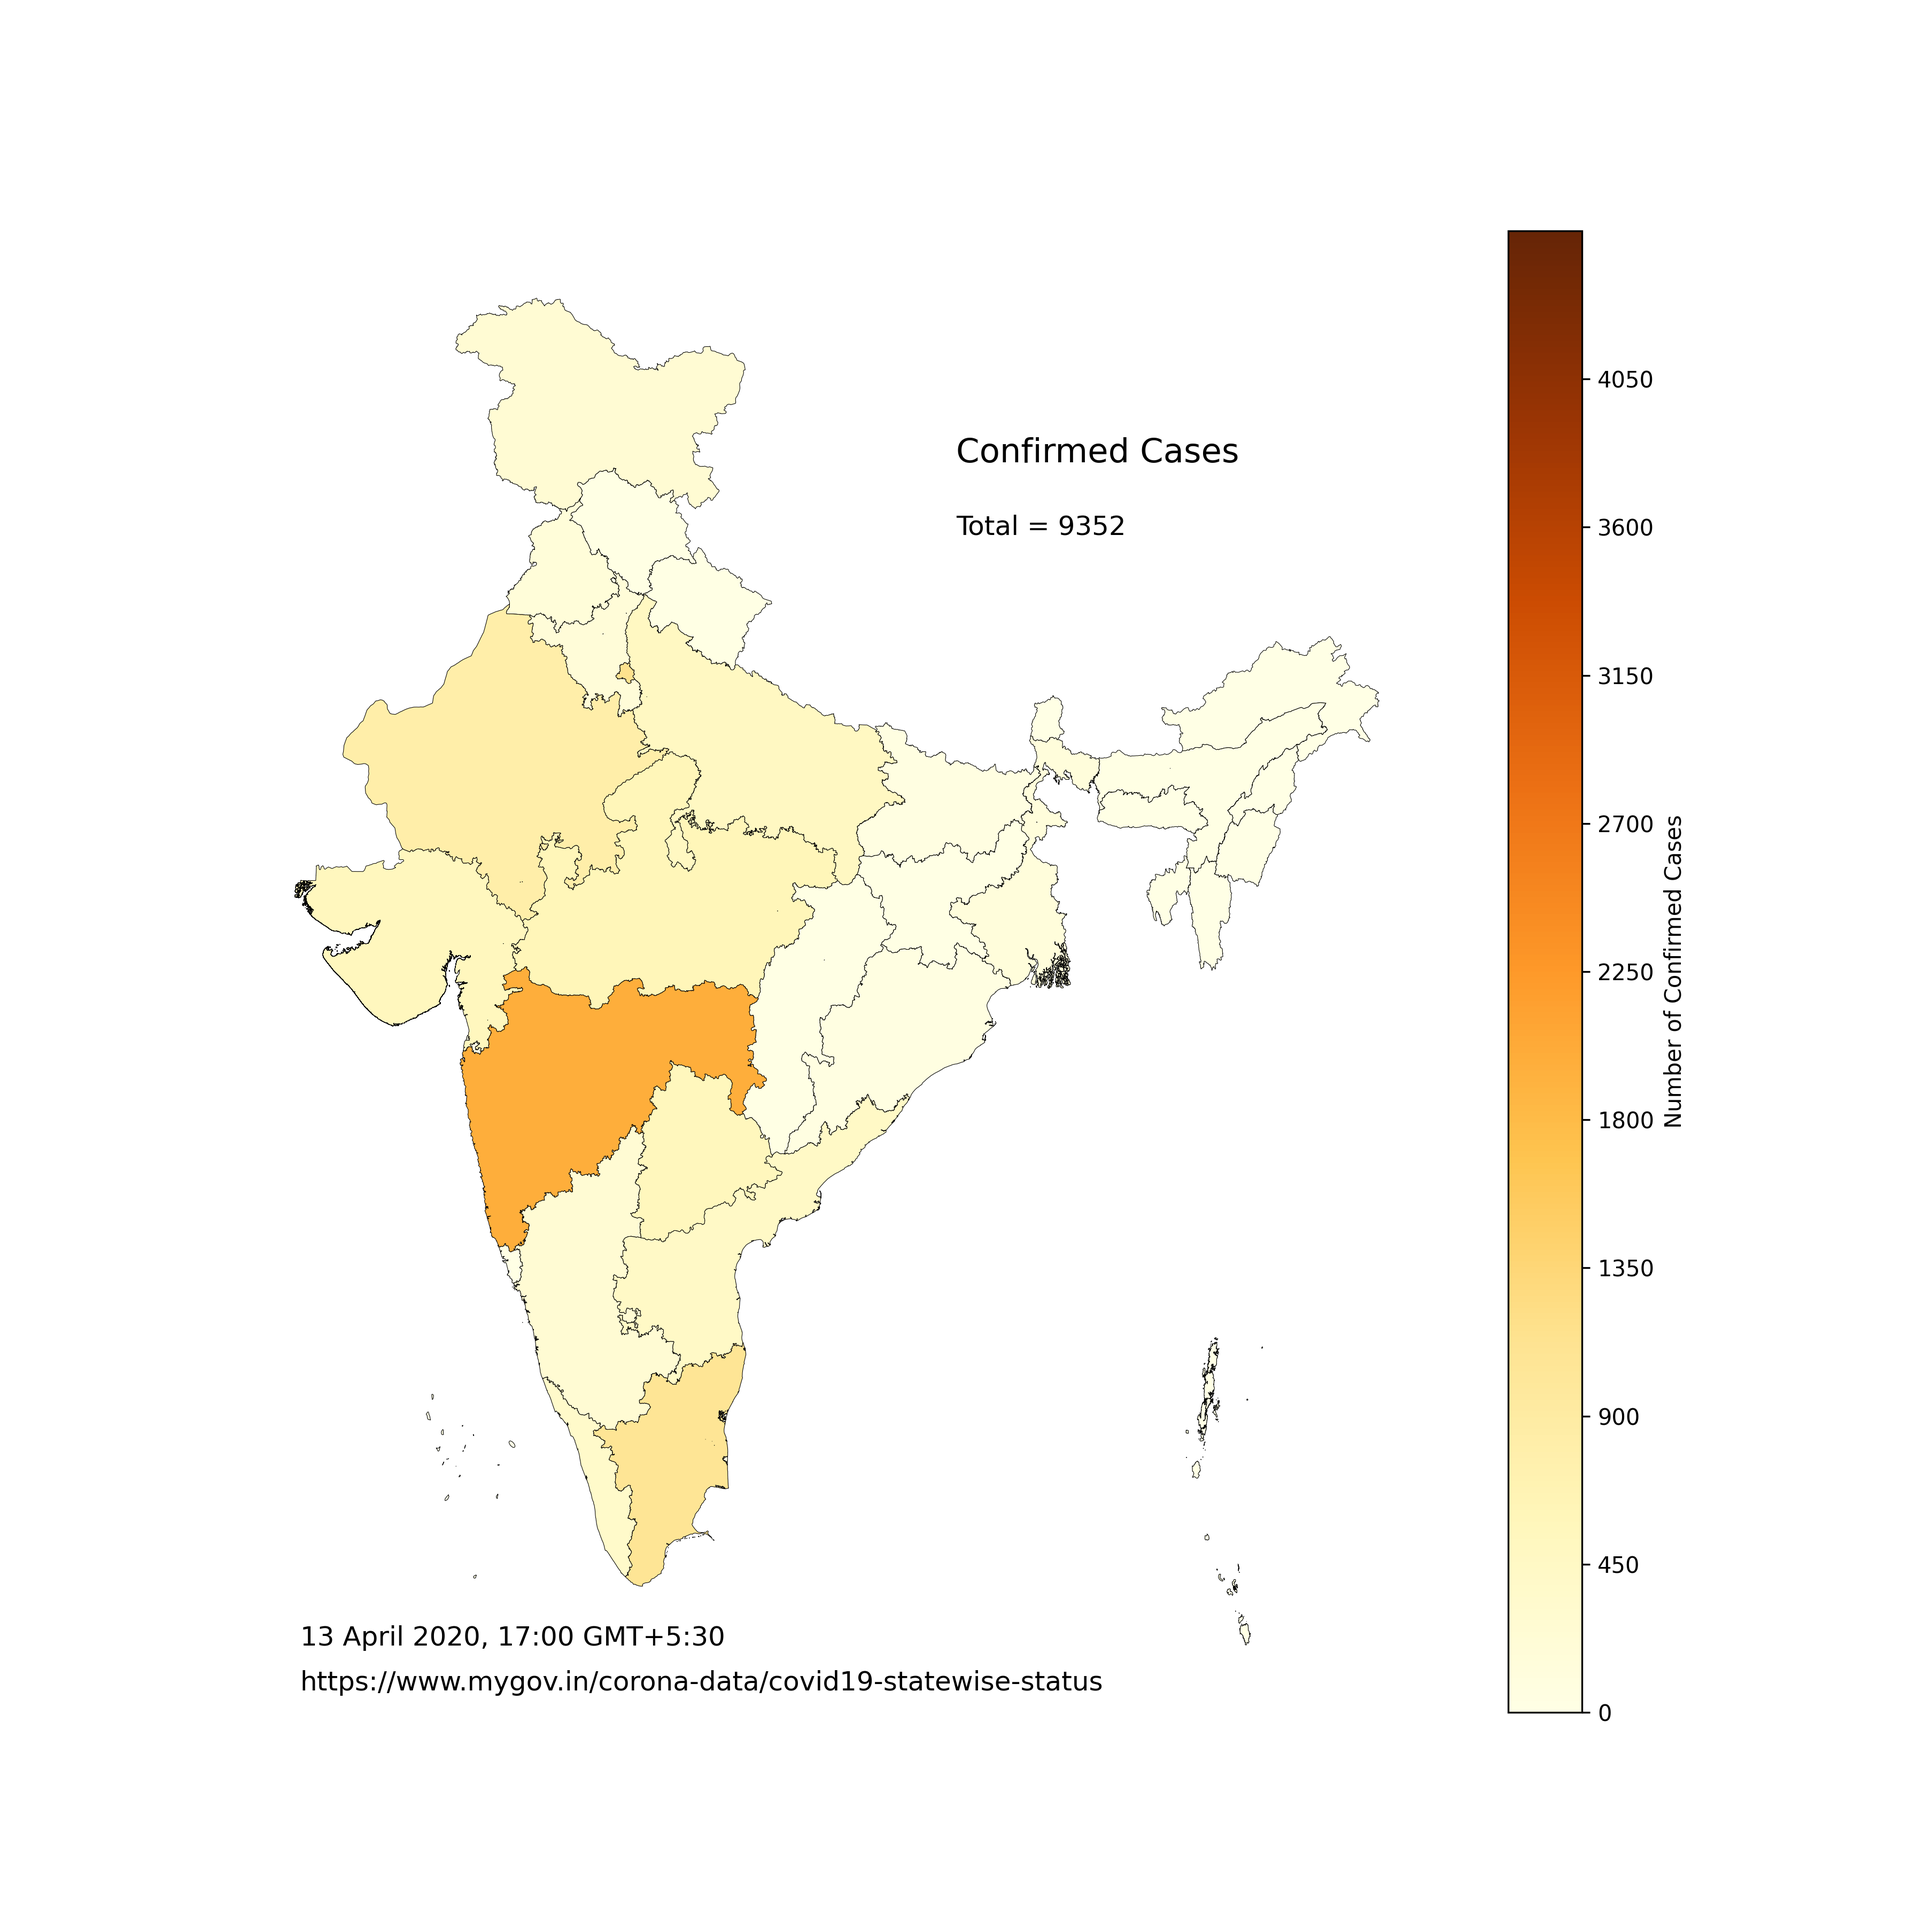
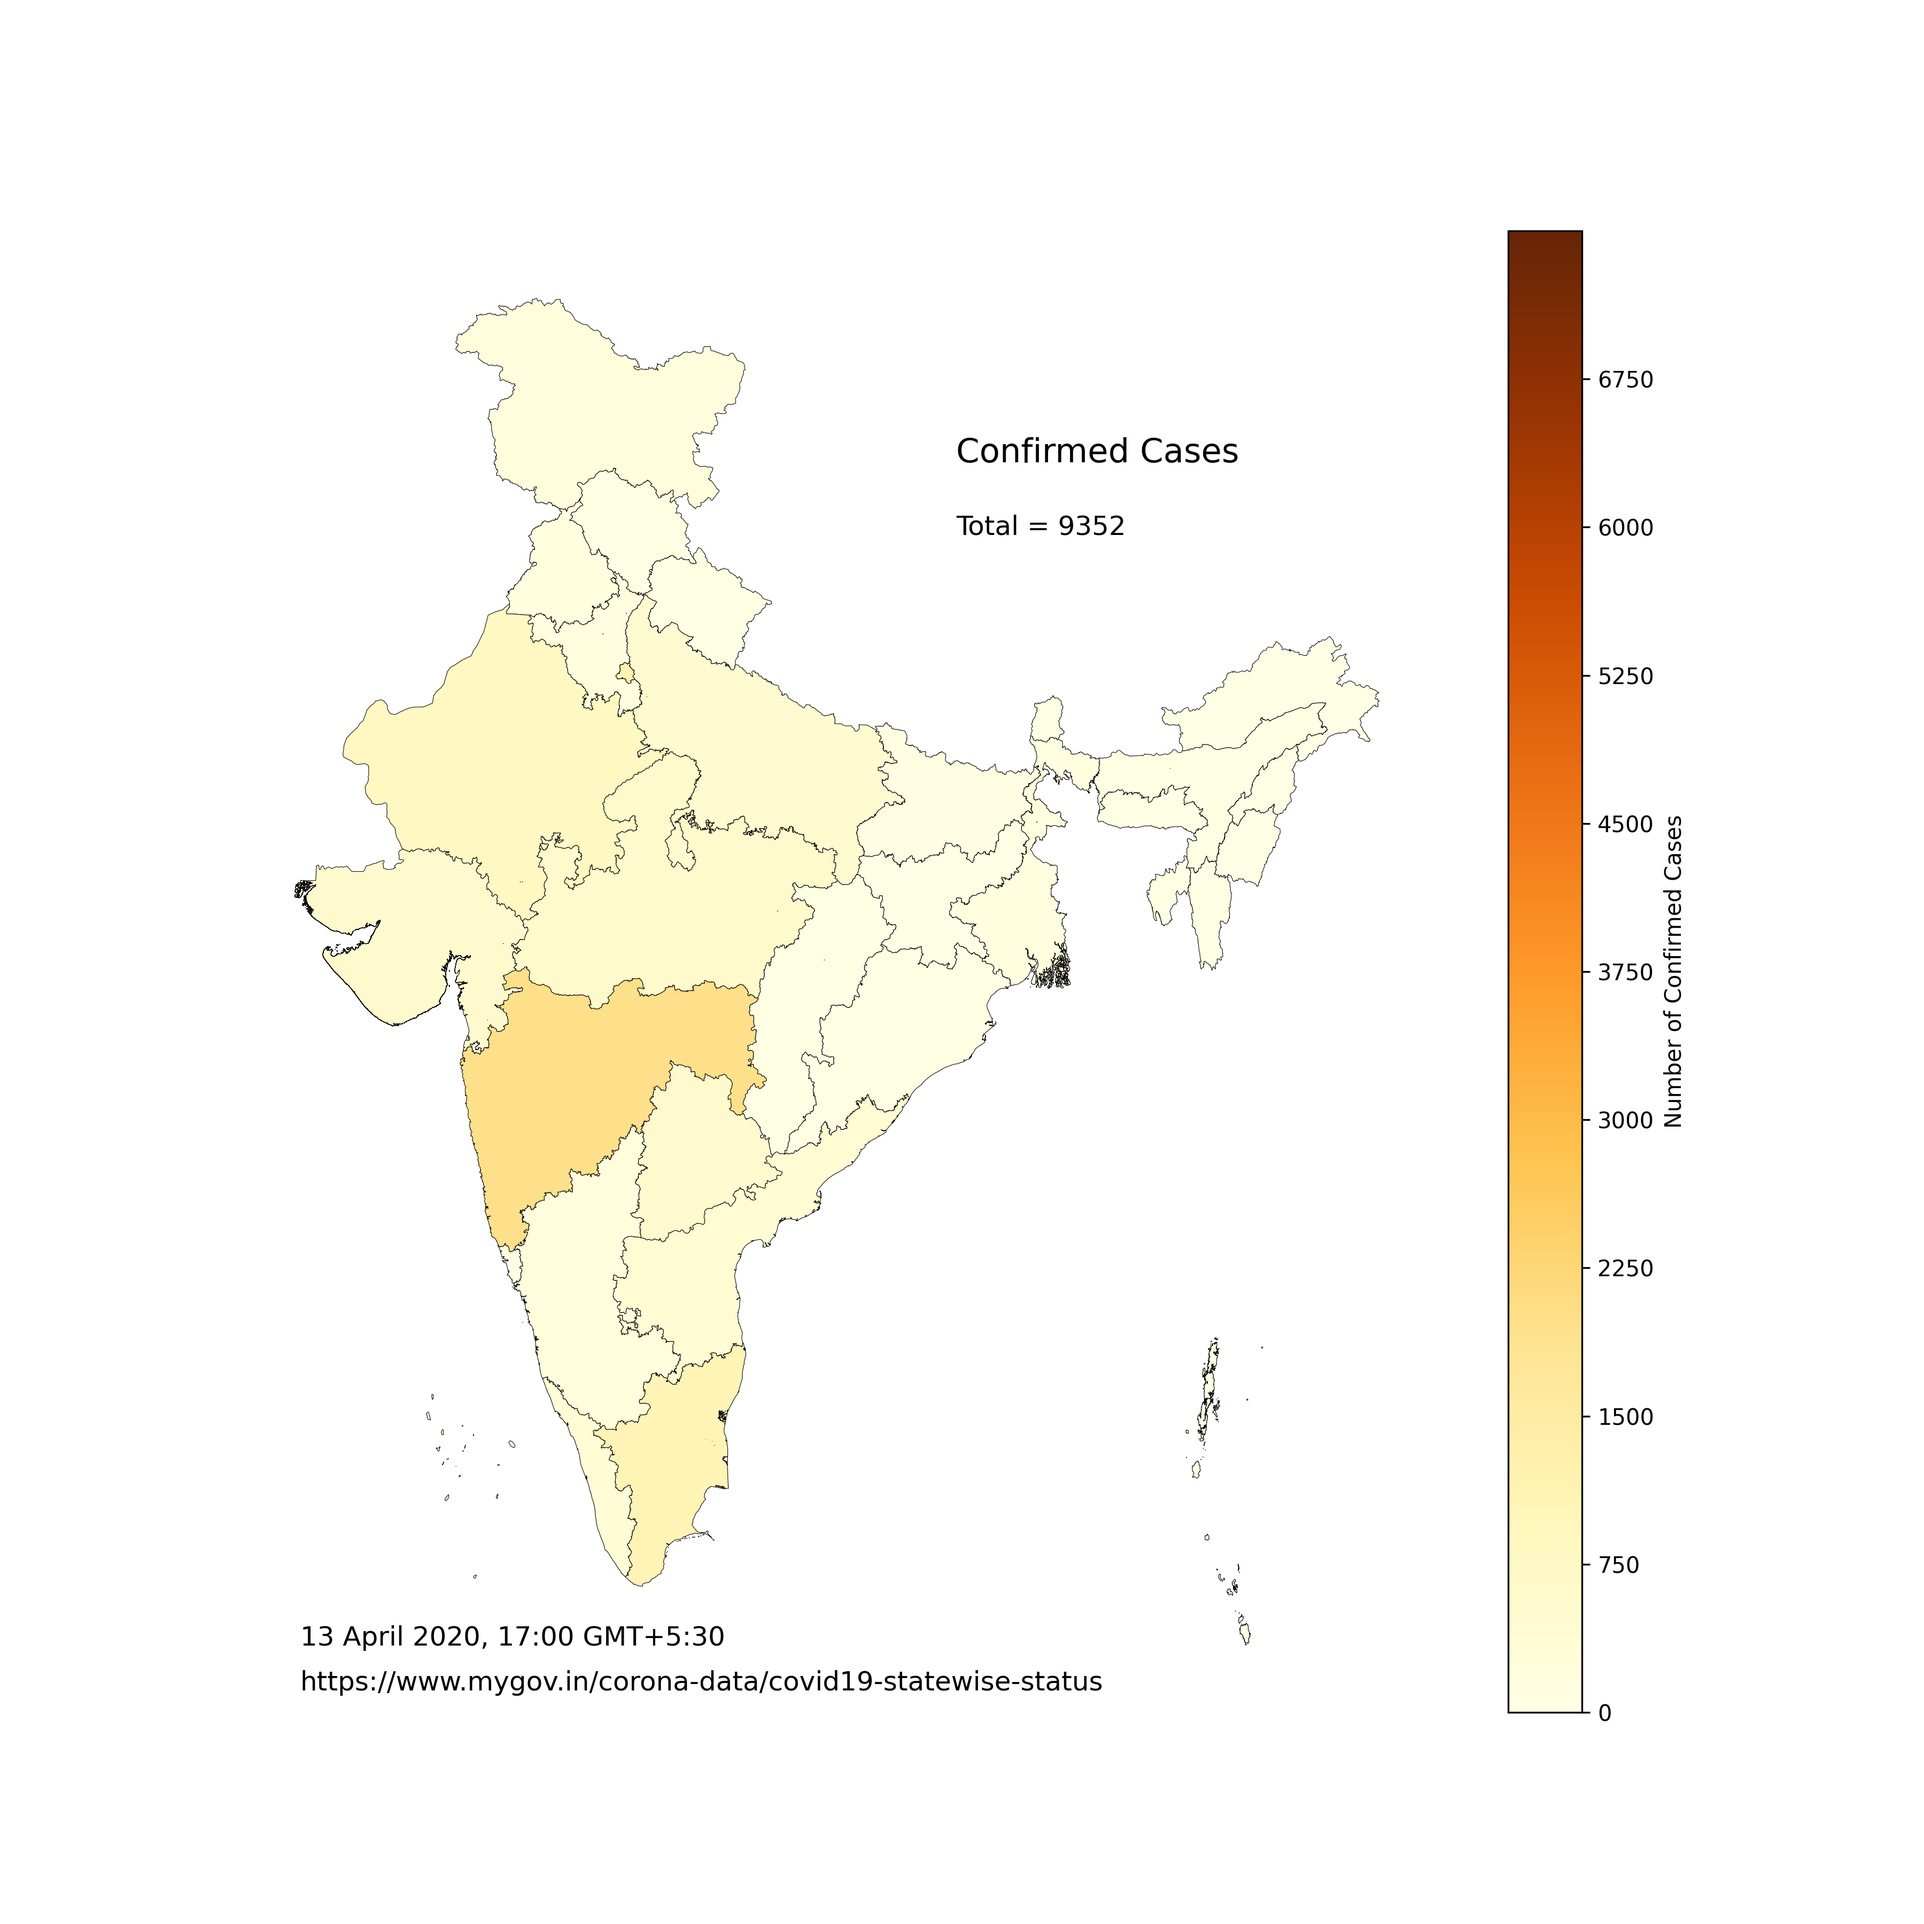
apr28

Changed region(s): [[0.1556, 0.3111, 0.4044, 0.6533], [0.3111, 0.6844, 0.4044, 0.84]]

diff --git a/covid19Animation.py b/covid19Animation.py
@@ -72,7 +72,7 @@ def animateMap (fig, time, toPlot, maxCount):
     #-- merging the data with the geo dataframe --#
     dfMerged = dfMap.set_index('st_nm').join(df)
     dfMerged = dfMerged.fillna(0)
-    print(df.loc['Jammu & Kashmir'].Confirmed)
+
     if toPlot=='Confirmed':
         title = toPlot + ' Cases'
     elif toPlot=='Dead':
@@ -98,21 +98,22 @@ def animateMap (fig, time, toPlot, maxCount):
     ax.text(0.05, 0.02, 'https://www.mygov.in/corona-data/covid19-statewise-status', transform=ax.transAxes, ha='left', va='center', fontsize=12)
     
     path = os.path.join(toPlot, time)
-    #plt.savefig(path + '_' + toPlot + '.png', dpi=300)
+    plt.savefig(path + '_' + toPlot + '.png', dpi=300)
     #plt.show()
     plt.close()
-    
+
+    #print(dfMerged.Confirmed)
     return ()
 
 
 ##-- main Program --##
 if __name__=='__main__':
     
-    df0 = pd.read_csv('dataFile_names.txt', sep='\n', header=[-1])
+    df0 = pd.read_csv('dataFile_names.txt', sep='\n', header=None)
     df0.columns = ['file_name']
     fnames = df0.file_name.tolist()
     #print(fnames, len(fnames))
-    
+
     periods = []
     for f in fnames:
         periods.append(f[12:len(f)-4])   #--extracting the date and time of getting the data.
@@ -120,10 +121,11 @@ if __name__=='__main__':
     
     try:
         toPlot = input('\n\tWhich map do you want (Confirmed/Cured/Dead)?:\t')
-        maxCount = input('\tGive the value of max {} cases (Confirmed=3500, Dead=300):\t'.format(toPlot))
+        maxCount = input('\tGive the value of max {} cases (Confirmed=7500, Dead=300):\t'.format(toPlot))
         for p in periods:
             fig, ax = plt.subplots(figsize=(12, 12))
             animateMap(fig, p, toPlot, maxCount)
+
     except KeyError:
         width = 30
         message = 'Kindly give a valid input'.center(width, ' ')
